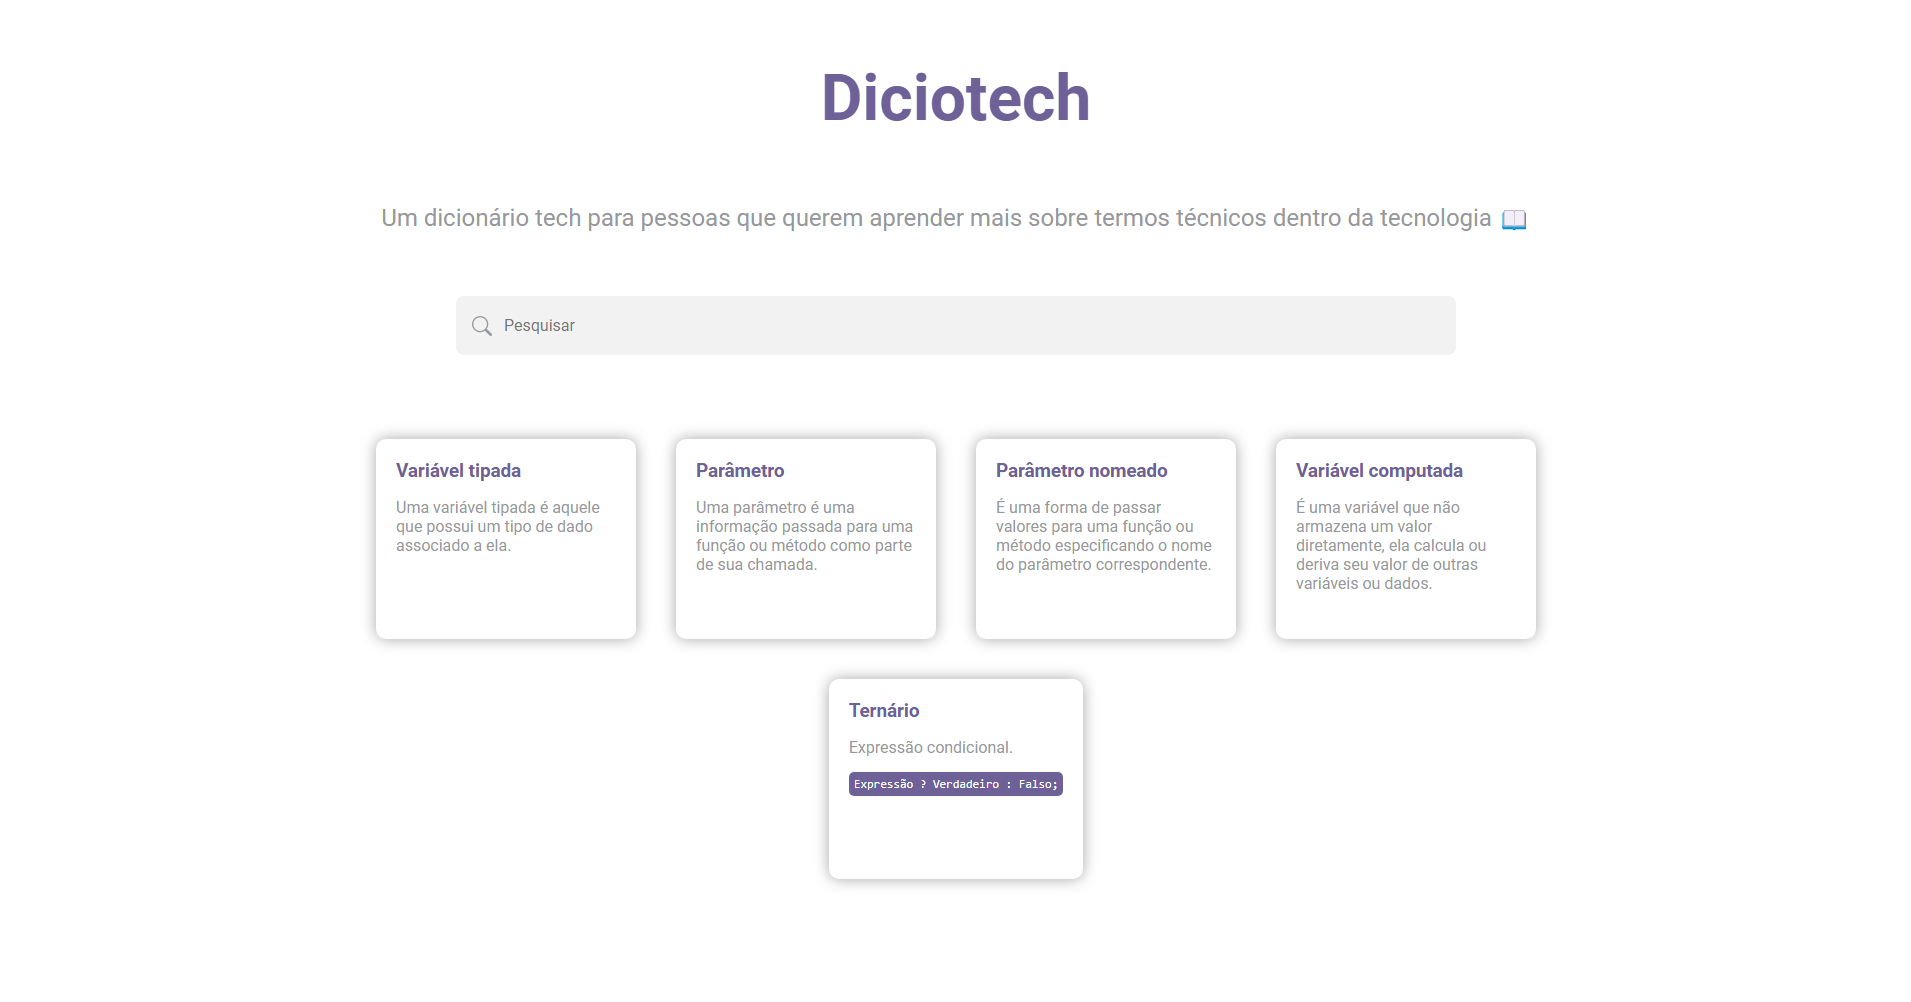
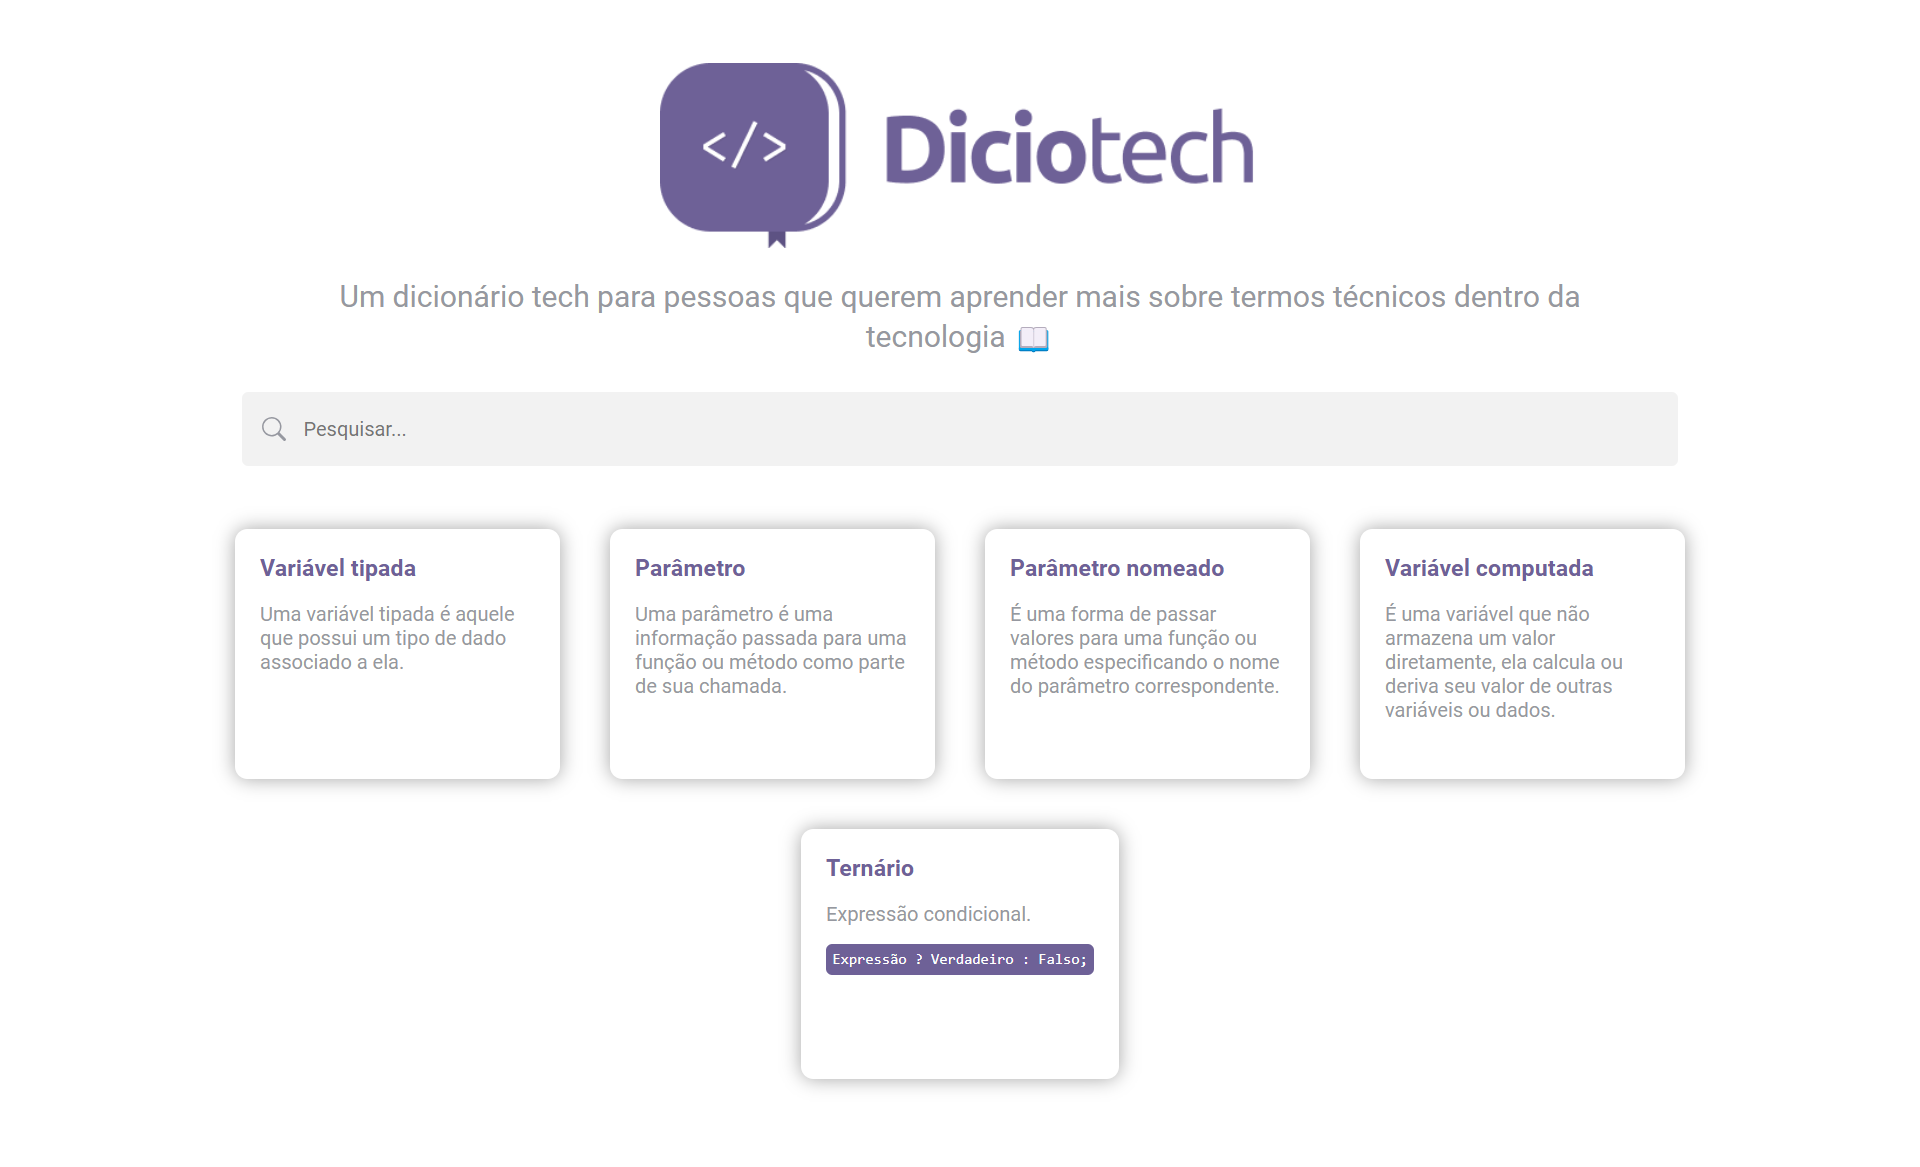
docs: README com contribuidores e screenshot atualizada.

diff --git a/README.md b/README.md
@@ -1,6 +1,9 @@
-![Diciotech](/assets/img/brand/logo/colored.png)
+<div align="center">
+  <img src="./assets/img/brand/logo/colored.png">
+  <p>Um dicionário tech para pessoas que querem aprender mais sobre termos técnicos dentro da tecnologia.</p>
+</div>
 
-Um dicionário tech para pessoas que querem aprender mais sobre termos técnicos dentro da tecnologia.
+---
 
 ![Imagem de captura do site do Diciotech](./assets/img/diciotech-screenshot.png)
 
@@ -9,3 +12,9 @@ Um dicionário tech para pessoas que querem aprender mais sobre termos técnicos
 Sua ajuda é muito bem-vinda, independente da forma! Confira o arquivo [CONTRIBUTING.md](CONTRIBUTING.md) para conhecer todas as formas de contribuir com o projeto. Por exemplo, [sugerir uma nova funcionalidade](https://github.com/levxyca/diciotech/issues/new?assignees=&labels=&template=feature_request.md&title=), [reportar um problema/bug](https://github.com/levxyca/diciotech/issues/new?assignees=&labels=bug&template=bug_report.md&title=), [enviar um pull request](https://help.github.com/articles/about-pull-requests/), ou simplemente utilizar o projeto e comentar sua experiência.
 
 Veja o arquivo [ROADMAP.md](ROADMAP.md) para ter uma ideia de como o projeto deve evoluir.
+
+### Contribuidores
+
+<a href="https://github.com/levxyca/diciotech/graphs/contributors">
+  <img src="https://contrib.rocks/image?repo=levxyca/diciotech&anon=0&columns=20&max=100" alt="Lista de contribuidores"/>
+</a>
